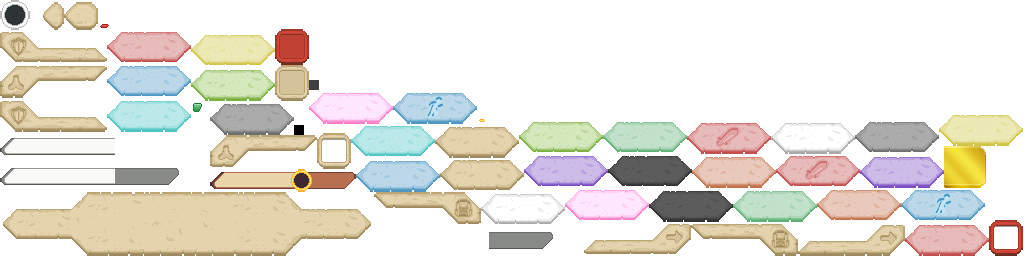
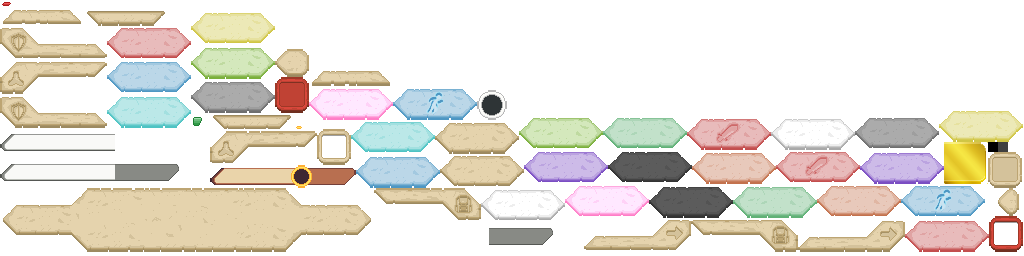
Issue #14: adds attack info button

Changed region(s): [[0.0, 0.0, 1.0, 1.0]]

diff --git a/GuardianMonsters/battle/src/de/limbusdev/guardianmonsters/battle/BattleHUD.java b/GuardianMonsters/battle/src/de/limbusdev/guardianmonsters/battle/BattleHUD.java
@@ -33,6 +33,9 @@ import de.limbusdev.guardianmonsters.guardians.monsters.Team;
 import de.limbusdev.guardianmonsters.services.Services;
 import de.limbusdev.guardianmonsters.ui.Constant;
 
+import static de.limbusdev.guardianmonsters.battle.ui.widgets.BattleHUDTextButton.CENTERBOTTOM;
+import static de.limbusdev.guardianmonsters.battle.ui.widgets.BattleHUDTextButton.CENTERTOP;
+
 
 /**
  * BattleHUD manages all actions and UI elements in the {@link BattleScreen}
@@ -54,6 +57,7 @@ public class BattleHUD extends ABattleHUD
     private BattleMainMenuWidget        mainMenu;
     private BattleActionMenuWidget      actionMenu;
     private AttackMenuWidget            attackMenu;
+    private AttackMenuWidget            attackInfoMenu;
     private BattleAnimationWidget       animationWidget;
     private BattleStatusOverviewWidget  statusWidget;
     private BattleQueueWidget           battleQueueWidget;
@@ -61,6 +65,9 @@ public class BattleHUD extends ABattleHUD
     private TargetMenuWidget            targetMenuWidget;
     private TargetMenuWidget            targetAreaMenuWidget;
     private MonsterMenuWidget           monsterMenuWidget;
+    private InfoLabelWidget             abilityInfoWidget;
+
+    private SevenButtonsWidget.CentralHalfButtonsAddOn attackMenuAddOn;
 
     // CallbackHandlers
     private BattleActionMenuWidget.Callbacks    battleActionCallbacks;
@@ -68,6 +75,7 @@ public class BattleHUD extends ABattleHUD
     private BattleActionMenuWidget.Callbacks    infoLabelCallbacks;
     private BattleActionMenuWidget.Callbacks    infoLabelStatusEffectCallbacks;
     private BattleActionMenuWidget.Callbacks    endOfBattleCallbacks;
+    private BattleActionMenuWidget.Callbacks    attackDetailInfoCallbacks;
     private SevenButtonsWidget.Callbacks        attackMenuCallbacks;
     private BattleSystem.Callbacks              battleSystemCallbacks;
     private SevenButtonsWidget.Callbacks        targetMenuCallbacks;
@@ -78,6 +86,8 @@ public class BattleHUD extends ABattleHUD
     private BattleActionMenuWidget.Callbacks    escapeFailCallbacks;
     private BattleAnimationWidget.Callbacks     battleAnimationCallbacks;
     private SevenButtonsWidget.Callbacks        monsterMenuCallbacks;
+    private SevenButtonsWidget.Callbacks        attackMenuAddOnCallbacks;
+    private SevenButtonsWidget.Callbacks        attackInfoMenuCallbacks;
 
     private Team leftTeam, rightTeam;
     private Inventory inventory;
@@ -169,6 +179,8 @@ public class BattleHUD extends ABattleHUD
         mainMenu            = new BattleMainMenuWidget(skin, mainMenuCallbacks);
         actionMenu          = new BattleActionMenuWidget(skin, battleActionCallbacks);
         attackMenu          = new AttackMenuWidget(skin, attackMenuCallbacks::onButtonNr);
+        attackInfoMenu      = new AttackMenuWidget(skin, attackInfoMenuCallbacks);
+        attackMenuAddOn     = new SevenButtonsWidget.CentralHalfButtonsAddOn(skin, attackMenuAddOnCallbacks);
         targetMenuWidget    = new TargetMenuWidget(skin, targetMenuCallbacks);
         targetAreaMenuWidget= new TargetMenuWidget(skin, targetAreaMenuCallbacks);
         monsterMenuWidget   = new MonsterMenuWidget(skin, monsterMenuCallbacks);
@@ -186,45 +198,36 @@ public class BattleHUD extends ABattleHUD
 
         battleStateSwitcher = new BattleStateSwitcher();
 
-        battleStartLabelCallbacks = new BattleActionMenuWidget.Callbacks() {
+        battleStartLabelCallbacks = new BattleActionMenuWidget.Callbacks()
+        {
             @Override
-            public void onMonsterButton() {
-                // Not needed
-            }
-
-            @Override
-            public void onBagButton() {
-                // not needed
-            }
-
-            @Override
-            public void onBackButton() {
+            public void onBackButton()
+            {
                 System.out.println("BattleStartLabel: onBackButton()");
                 battleStateSwitcher.toMainMenu();
             }
-
-            @Override
-            public void onExtraButton() {
-                // not needed
-            }
         };
 
-        battleActionCallbacks = new BattleActionMenuWidget.Callbacks() {
+        battleActionCallbacks = new BattleActionMenuWidget.Callbacks()
+        {
             @Override
-            public void onMonsterButton() {
+            public void onMonsterButton()
+            {
                 System.out.println("Show Monster Menu");
                 monsterMenuWidget.init(battleSystem, Constant.LEFT);
                 battleStateSwitcher.toTeamMenu();
             }
 
             @Override
-            public void onBagButton() {
+            public void onBagButton()
+            {
                 // TODO make new widget, as this one belongs to package inventory and is not accessible here
                 /*stage.addActor(new ItemChoice(Services.getUI().getInventorySkin(), inventory, leftTeam, battleSystem));*/
             }
 
             @Override
-            public void onBackButton() {
+            public void onBackButton()
+            {
                 System.out.println("BattleActionButtons: onBackButton()");
                 battleStateSwitcher.toMainMenu();
             }
@@ -235,7 +238,8 @@ public class BattleHUD extends ABattleHUD
             }
         };
 
-        mainMenuCallbacks = new BattleMainMenuWidget.Callbacks() {
+        mainMenuCallbacks = new BattleMainMenuWidget.Callbacks()
+        {
             @Override
             public void onRunButton() {
                 System.out.println("Input: Run Button");
@@ -269,6 +273,15 @@ public class BattleHUD extends ABattleHUD
             }
         };
 
+        attackDetailInfoCallbacks = new BattleActionMenuWidget.Callbacks()
+        {
+            @Override
+            public void onBackButton()
+            {
+                abilityInfoWidget.remove();
+            }
+        };
+
         infoLabelStatusEffectCallbacks = new BattleActionMenuWidget.Callbacks()
         {
             @Override
@@ -285,7 +298,8 @@ public class BattleHUD extends ABattleHUD
         endOfBattleCallbacks = new BattleActionMenuWidget.Callbacks()
         {
             @Override
-            public void onBackButton() {
+            public void onBackButton()
+            {
                 boolean teamOk = false;
                 for(AGuardian m : leftTeam.values()) {
                     if(m.getIndividualStatistics().isFit()) {
@@ -318,6 +332,24 @@ public class BattleHUD extends ABattleHUD
                 battleStateSwitcher.toTargetAreaChoice();
             } else {
                 battleStateSwitcher.toTargetChoice();
+            }
+        };
+
+        attackInfoMenuCallbacks = nr ->
+        {
+            abilityInfoWidget.setWholeText("Example");
+            // TODO show information about chosen attack
+        };
+
+        attackMenuAddOnCallbacks = nr ->
+        {
+            switch(nr)
+            {
+                case CENTERTOP: // TODO
+                    break;
+                case CENTERBOTTOM:
+                    break;
+                default:;
             }
         };
 
@@ -529,6 +561,7 @@ public class BattleHUD extends ABattleHUD
             battleQueueWidget.addToStage(stage);
             actionMenu.addToStage(stage);
             attackMenu.addToStage(stage);
+            attackMenuAddOn.addToStage(stage);
 
             // Setup Widgets
             actionMenu.setCallbacks(battleActionCallbacks);
@@ -679,6 +712,7 @@ public class BattleHUD extends ABattleHUD
             statusWidget.remove();
             actionMenu.remove();
             battleQueueWidget.remove();
+            attackMenuAddOn.remove();
 
             actionMenu.enable();
         }

diff --git a/GuardianMonsters/battle/src/de/limbusdev/guardianmonsters/battle/ui/widgets/SevenButtonsWidget.java b/GuardianMonsters/battle/src/de/limbusdev/guardianmonsters/battle/ui/widgets/SevenButtonsWidget.java
@@ -6,6 +6,7 @@ import com.badlogic.gdx.scenes.scene2d.Touchable;
 import com.badlogic.gdx.scenes.scene2d.ui.Button;
 import com.badlogic.gdx.scenes.scene2d.ui.Skin;
 import com.badlogic.gdx.scenes.scene2d.ui.TextButton;
+import com.badlogic.gdx.scenes.scene2d.utils.ClickListener;
 import com.badlogic.gdx.utils.Align;
 import com.badlogic.gdx.utils.ArrayMap;
 
@@ -162,5 +163,44 @@ public class SevenButtonsWidget extends BattleWidget
     // INNER INTERFACE
     public interface Callbacks {
         void onButtonNr(int nr);
+    }
+
+    public static class CentralHalfButtonsAddOn extends BattleWidget
+    {
+        private ArrayMap<Integer,TextButton> buttons;
+        private Callbacks callbacks;
+        protected Skin skin;
+
+        public CentralHalfButtonsAddOn(Skin skin, Callbacks callbacks)
+        {
+            super();
+            this.buttons = new ArrayMap<>();
+            this.callbacks = callbacks;
+            this.skin = skin;
+
+            TextButton tb;
+            tb = new BattleHUDTextButton("info", skin, 7, Element.NONE);
+            buttons.put(7,tb);
+            addActor(tb);
+            tb = new BattleHUDTextButton("back", skin, 8, Element.NONE);
+            buttons.put(8,tb);
+            addActor(tb);
+
+            for (int i = 7; i <= 8; i++) {
+                final int j = i;
+                final TextButton attButt = buttons.get(i);
+                attButt.addListener(
+                    new ClickListener()
+                    {
+                        @Override
+                        public void clicked(InputEvent event, float x, float y)
+                        {
+                            super.clicked(event,x,y);
+                            if(!attButt.isDisabled()) {callbacks.onButtonNr(j);}
+                        }
+                    }
+                );
+            }
+        }
     }
 }

diff --git a/GuardianMonsters/battle/src/de/limbusdev/guardianmonsters/battle/ui/widgets/BattleHUDTextButton.java b/GuardianMonsters/battle/src/de/limbusdev/guardianmonsters/battle/ui/widgets/BattleHUDTextButton.java
@@ -15,24 +15,30 @@ import de.limbusdev.guardianmonsters.guardians.Element;
 public class BattleHUDTextButton extends TextButton {
 
     public static final int X = 0, Y = 1;
-    public static final int LEFT=0, TOPLEFT=1, BOTTOMLEFT=2, CENTER=3, TOPRIGHT=4, BOTTOMRIGHT=5, RIGHT=6;
+    public static final int LEFT=0, TOPLEFT=1, BOTTOMLEFT=2, CENTER=3, TOPRIGHT=4, BOTTOMRIGHT=5, RIGHT=6, CENTERTOP=7, CENTERBOTTOM=8;
     public static final int ALIGN = Align.bottomLeft;
 
     public static final int[][] SLOTS = {
-        {29,17}, {101,33}, {101,1}, {173,17}, {245,33}, {245,1}, {317,17}
+        {29,17}, {101,33}, {101,1}, {173,17}, {245,33}, {245,1}, {317,17}, {173,49}, {173,1}
     };
 
-    public BattleHUDTextButton(String text, Skin skin, int position, Element element) {
+    public BattleHUDTextButton(String text, Skin skin, int position, Element element)
+    {
         super(text, skin, construct(position, element));
-
         setPosition(SLOTS[position][X], SLOTS[position][Y], ALIGN);
     }
 
-    private static String construct(int position, Element element) {
+    private static String construct(int position, Element element)
+    {
         String style;
-        if(element == null) element = Element.NONE;
 
-        style = "tb-attack-" + element.toString().toLowerCase();
+        if(position <= 6) {
+            if (element == null) element = Element.NONE;
+
+            style = "tb-attack-" + element.toString().toLowerCase();
+        } else {
+            style = "tb-attack-none-center" + ((position == 7) ? "top" : "bottom");
+        }
 
         return style;
     }

diff --git a/GuardianMonsters/guardians/src/de/limbusdev/guardianmonsters/guardians/battle/BattleSystem.java b/GuardianMonsters/guardians/src/de/limbusdev/guardianmonsters/guardians/battle/BattleSystem.java
@@ -415,9 +415,11 @@ public class BattleSystem
         {
             boolean foundTarget = false;
             AGuardian target;
-            while(!foundTarget) {
+            while(!foundTarget)
+            {
                 target = queue.getCombatTeamLeft().getRandomFitMember();
-                if(target.getIndividualStatistics().isFit()) {
+                if(target.getIndividualStatistics().isFit())
+                {
                     foundTarget = true;
                     setChosenTarget(target);
                 }
